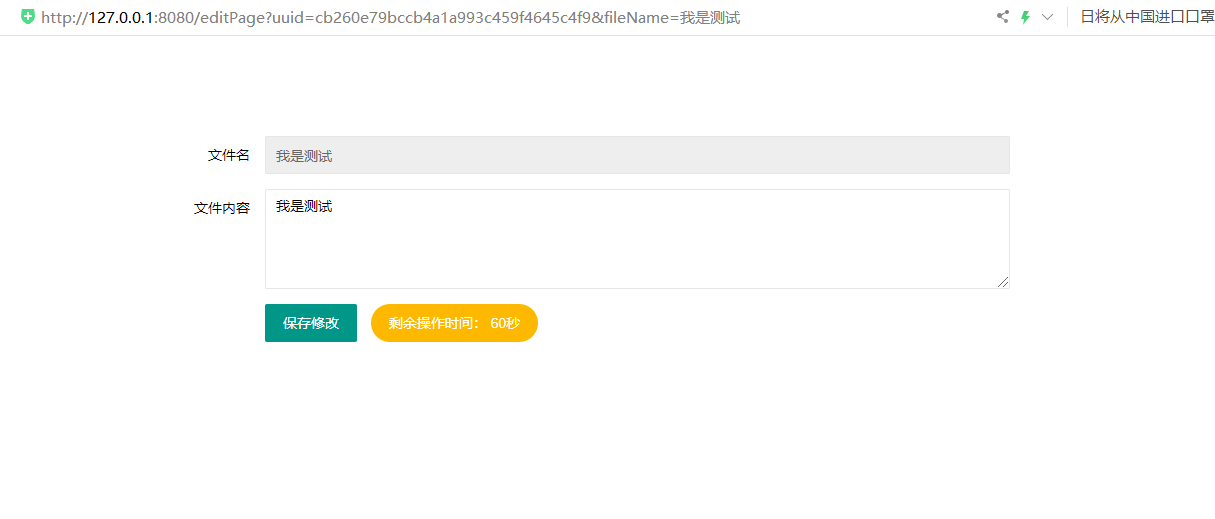
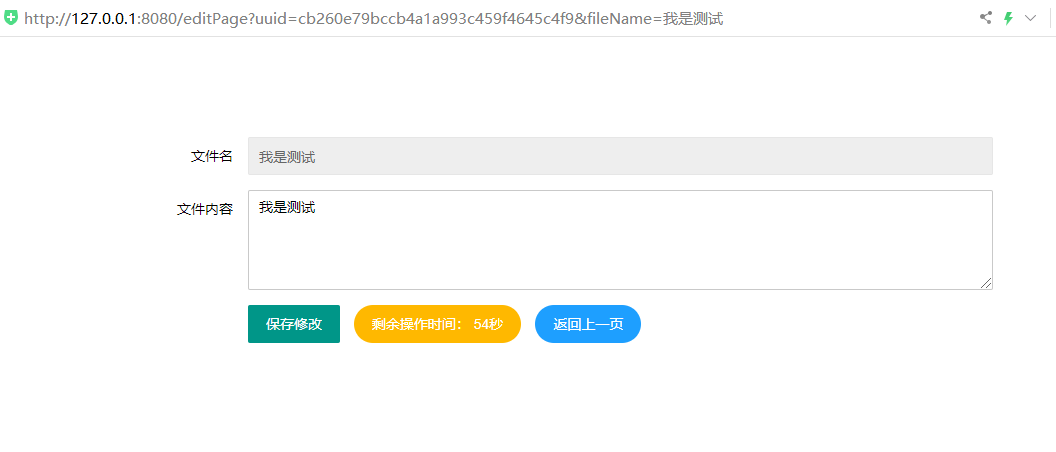
文档说明样式更改

diff --git a/src/main/resources/templates/historyPage.html b/src/main/resources/templates/historyPage.html
@@ -11,6 +11,7 @@
 <div id="pTable" style="width: 1200px;">
     <table class="layui-table" id="layui_table_id" lay-filter="test" ></table>
     <div id="laypage"></div>
+    <input type="button" class="layui-btn layui-btn-radius layui-bg-blue" onclick="javascript:history.back(-1);" value="返回上一页">
 </div>
 <table class="layui-hide" id="test"></table>
 <script src="layui/layui.js"></script>
@@ -29,16 +30,17 @@
                 laypage = layui.laypage;
             table.render({
                 elem: '#layui_table_id'
-                , url: url
+                ,url: url
                 ,where:{pageNum:start,pageSize:limitsize} //传参*/
                 , cols: [
                     [
-                    {field: 'fileName', title: '文件名', width: '170', event: 'downLoad',sort: true}
-                    ,{field: 'operation', title: '操作', width: '100',fixed: 'right', toolbar: '#barDemo'}
+                    {field: 'fileName', title: '文件名', width: '250', event: 'downLoad',sort: true,align: 'center'}
+                    ,{field: 'operation', title: '操作', width: '250',fixed: 'right', toolbar: '#barDemo',align: 'center'}
                     ]
                 ]
                 , page: false
                 , height: 430
+                , width: 500
                 ,done: function(res, curr, count){
                     //如果是异步请求数据方式，res即为你接口返回的信息。
                     //如果是直接赋值的方式，res即为：{data: [], count: 99} data为当前页数据、count为数据总长度

diff --git a/src/main/resources/templates/editPage.html b/src/main/resources/templates/editPage.html
@@ -30,6 +30,7 @@
                     <div class="layui-input-block">
                         <button  class="layui-btn  layui-bg-gray" lay-submit lay-filter="formDemo" id="saveButton" disabled="true">保存修改</button>
                         <input type="button" class="layui-btn layui-btn-radius  layui-bg-gray" id="leftTime" disabled="true" value="剩余操作时间： 60秒"></input>
+                        <input type="button" class="layui-btn layui-btn-radius layui-bg-blue" onclick="javascript:history.back(-1);" value="返回上一页">
                     </div>
                 </div>
 
@@ -140,6 +141,7 @@
                      $("#textContent").attr("readonly","true");
                      $("#textContent").addClass("layui-bg-gray");
                      $("#saveButton").addClass("layui-bg-gray").attr("disabled","true");
+                     $('#leftTime').removeClass("layui-btn-warm").addClass("layui-bg-gray");
                  }
                  if(typeof(wobj.t) != "undefined" || wobj.t != null){
                      $("#textContent").val(wobj.t);
